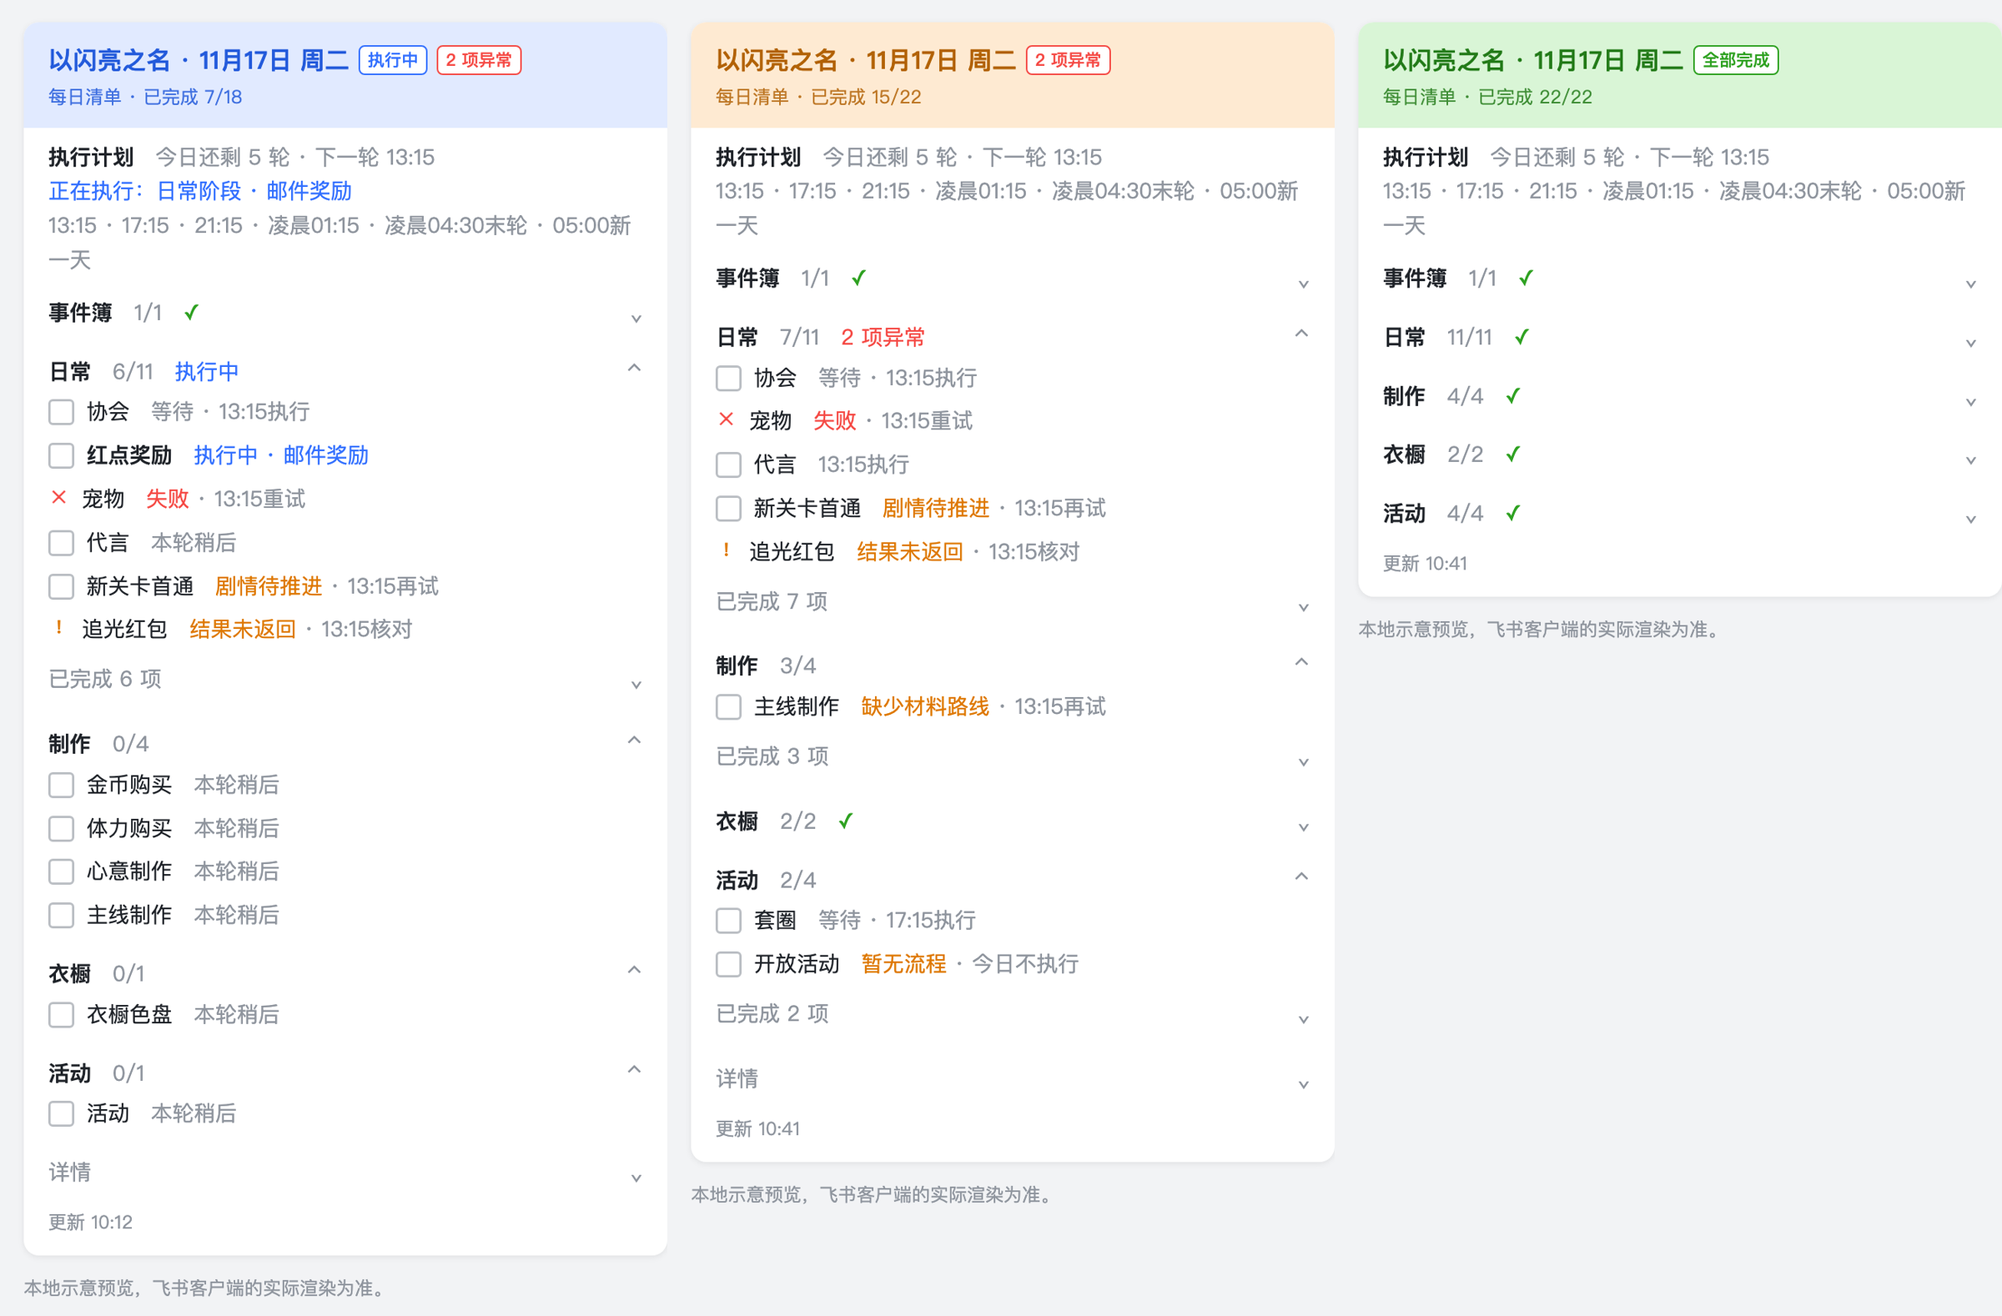
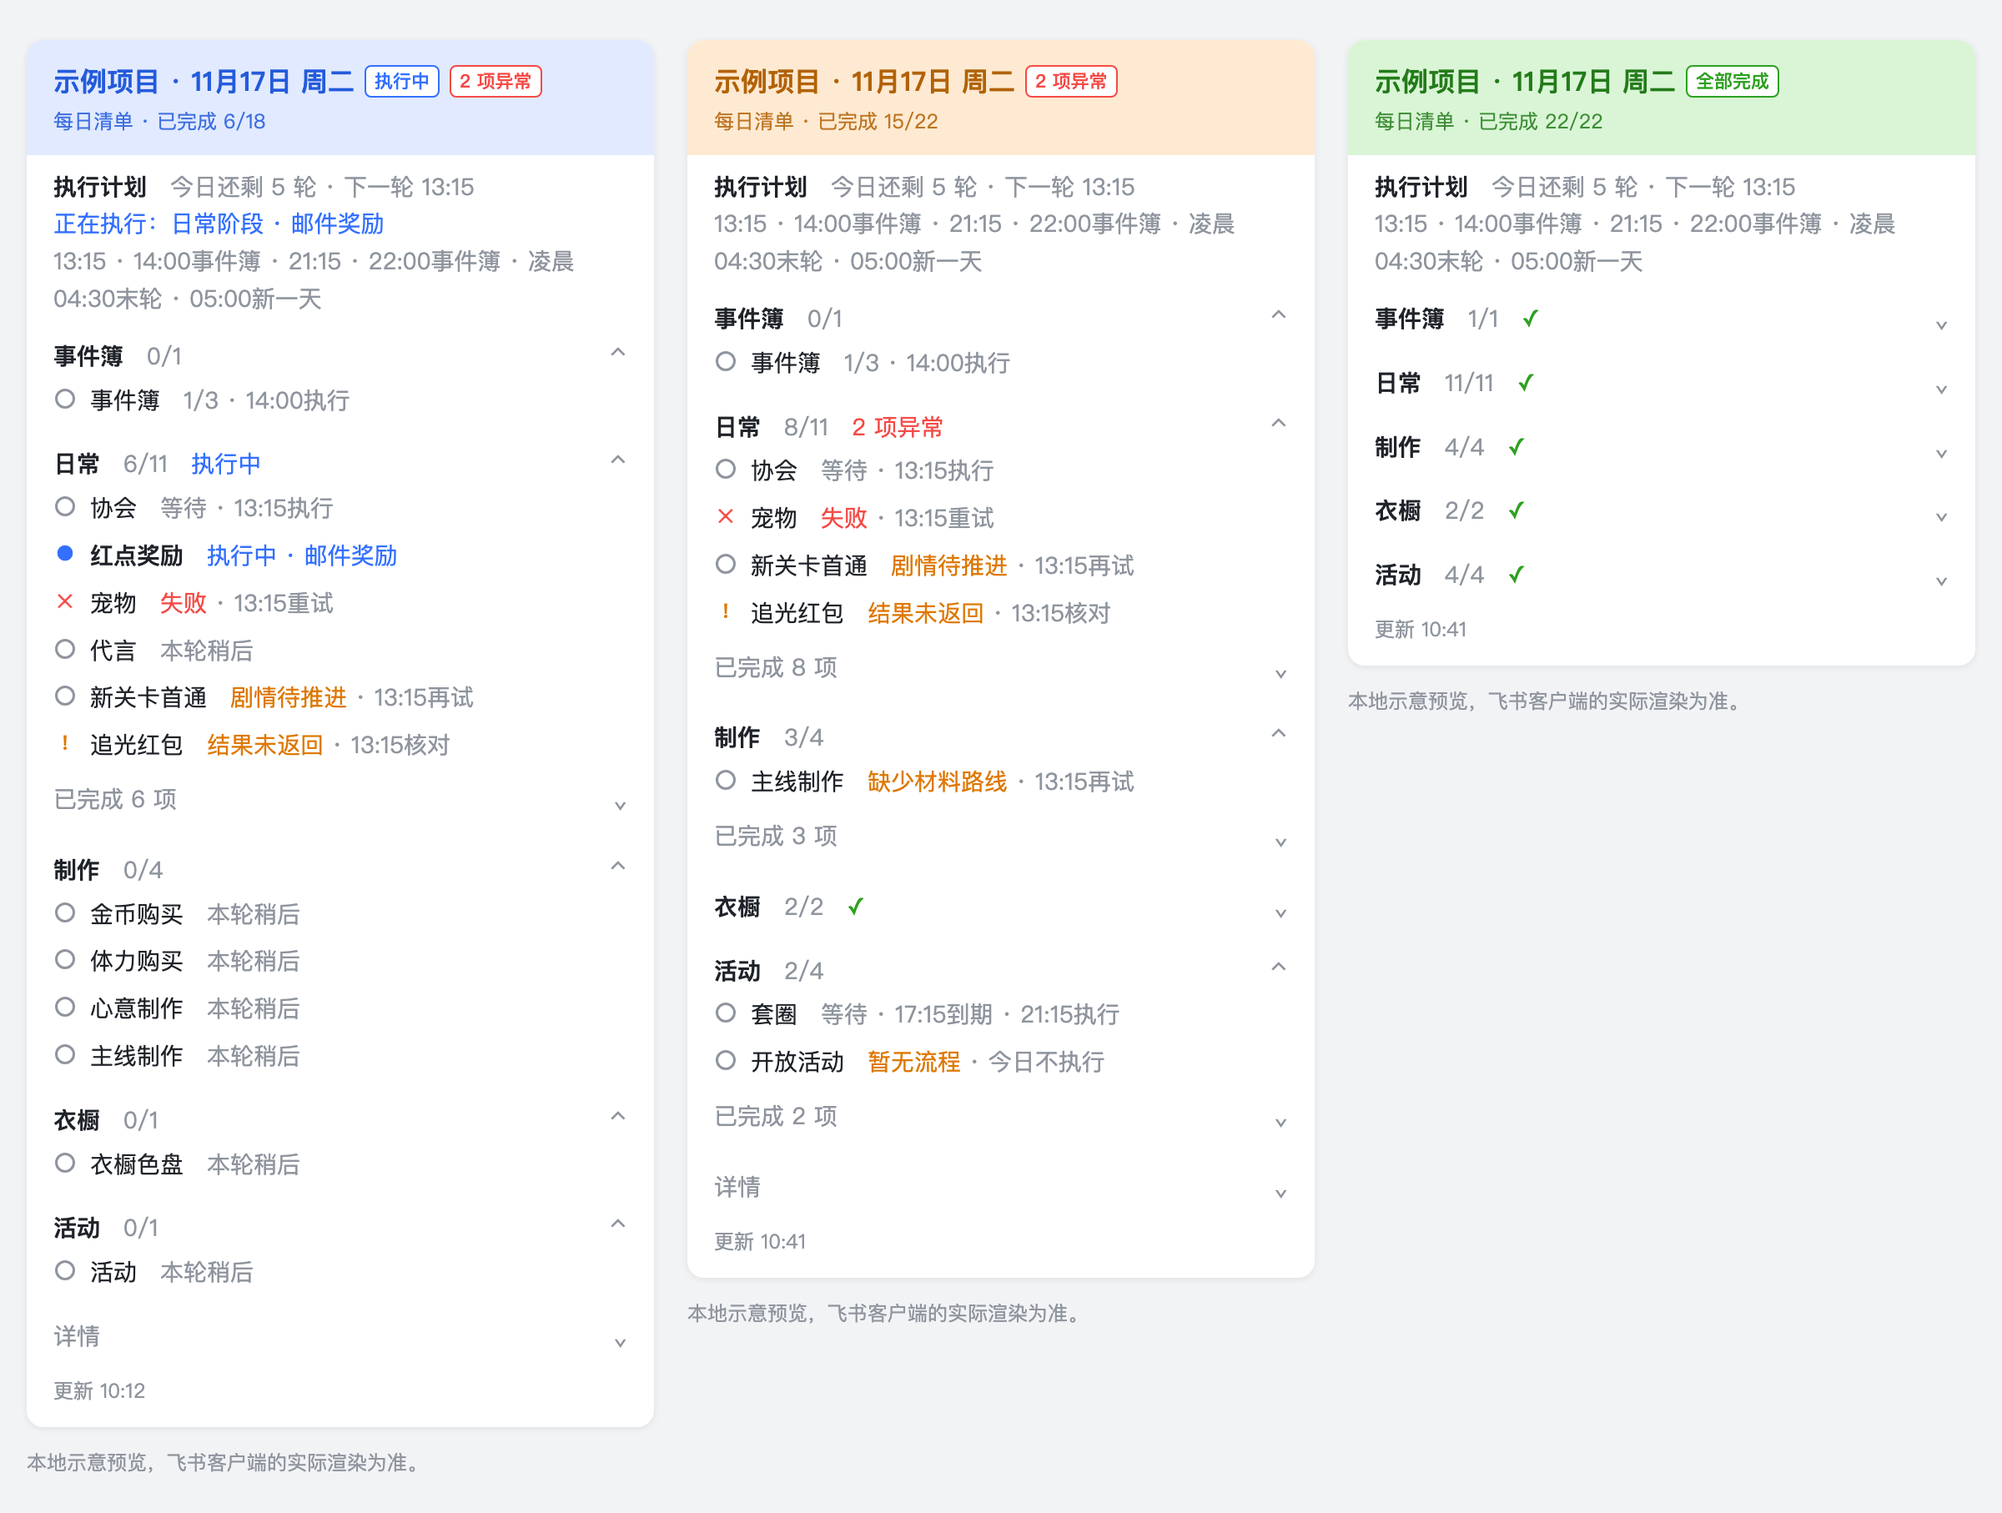
精简 README，更新卡片预览图
- README 改为面向 agent 的用法说明：概念、命令、接入步骤、运维规则、
  私有目录和开发约定，不再出现具体游戏名
- 预览图换成当前的只读状态图标和执行计划，卡片标题改为「示例项目」
- 本地 HTML 预览补画待执行项的空心圆图标（之前不显示）
- .gitignore 注释不再写具体项目目录

diff --git a/autocontrol/board/preview.py b/autocontrol/board/preview.py
@@ -54,18 +54,20 @@ def _element(element: dict) -> str:
         )
     if tag == 'div':
         icon = element.get('icon') or {}
+        token = icon.get('token')
         glyph = {
-            'ellipse_outlined': '',
+            'ellipse_outlined': '',  # drawn as an outlined ring by CSS
             'record_outlined': '●',
             'succeed_filled': '✓',
             'error_filled': '✕',
             'warning-hollow_filled': '!',
-        }.get(icon.get('token'), '•')
+        }.get(token, '•')
+        ring = ' ring' if token == 'ellipse_outlined' else ''
         color = COLORS.get(icon.get('color'), '#646a73')
         text = _inline(element.get('text', {}).get('content', ''))
         return (
-            f'<div class="todo"><span class="mark" style="color:{color};border-color:{color}">{glyph}</span>'
-            f'<span class="text">{text}</span></div>'
+            f'<div class="todo"><span class="mark{ring}" style="color:{color};border-color:{color}">'
+            f'{glyph}</span><span class="text">{text}</span></div>'
         )
     if tag == 'collapsible_panel':
         title = _inline(element.get('header', {}).get('title', {}).get('content', ''))
@@ -113,6 +115,8 @@ def card_html(card: dict, *, title: str = '卡片预览') -> str:
   .todo.done .box {{ background: #3370ff; border-color: #3370ff; }}
   .mark {{ flex: none; width: 14px; height: 14px; margin-top: 3px; font-size: 12px; font-weight: 700;
            line-height: 14px; text-align: center; }}
+  .mark.ring {{ box-sizing: border-box; width: 12px; height: 12px; margin: 4px 1px 0;
+                border: 1.5px solid; border-radius: 50%; }}
   .todo.done .text {{ text-decoration: line-through; opacity: .5; }}
   .md.small {{ font-size: 12px; }}
   .md.indent {{ margin: -4px 0 0 24px; }}

diff --git a/README.md b/README.md
@@ -1,113 +1,76 @@
-# autocontrol 本地自动执行总控台
+# autocontrol
 
-按计划调度各项目的自动化执行器，把每一轮的进度实时更新到**一张飞书 todolist 卡片**上，同时归档结果、记录运行指标，并为新接入的脚本提供统一的协议、准入检查和指标阈值。
+本地自动执行总控台：按计划调度各项目的执行器子进程，把每一轮的进度实时写到一张飞书卡片上，归档结果并记录运行指标。Python ≥ 3.10，无第三方依赖。
 
-由 `yslzm/tools` 下的总控台（`daily_board`、`run_scheduled` 等）重构而来，Review 结论见 [docs/REVIEW.md](docs/REVIEW.md)；接入新脚本请看 [docs/接入规范.md](docs/接入规范.md)。
+## 概念
 
-## 能力
+- **项目**：一个被调度的执行器，两种接入方式：
+  - 协议项目：执行器按协议 v1 输出，用清单 `autocontrol.json` 描述，命令行写 `--manifest <清单>`。
+  - 内置适配器：`autocontrol/projects/<名称>/` 适配的存量执行器，命令行写 `--project <名称>`。
+- **私有目录**（`--private`；协议项目默认取清单的 `private` 字段）：锁、结果、指标、卡片绑定和飞书配置都在这里，不进仓库。
+- **服务日**：从清单 `schedule.reset` 起的 24 小时。重置早于 12:00 的按开始日期命名，12:00 及以后的按次日命名。
+- **一轮**：按清单 `phases` 的顺序，每个阶段运行一次执行器。唤醒时刻包括清单的固定时刻 `schedule.times`，以及执行器在结果里上报的 `next_wake`。换日时刻只做只读发现。
+- **卡片**：每个项目每个服务日一张，执行中持续更新同一张。
 
-- **调度**：固定时刻 + 执行器上报的动态时刻（计时到期、窗口开放）；服务日切换时只读发现新计划；启动时补跑一轮；失败指数退避。cron 每 5 分钟只负责看护进程。
-- **执行**：每轮按阶段顺序运行执行器子进程；单阶段失败不跳过、不重放后续阶段；探测账号锁，被占用时让路；超时终止。
-- **卡片**：每个项目每个服务日一张卡片，先发布固定计划再启动执行器，执行中持续更新同一张卡片；通知故障不阻断业务，恢复后补发最新状态。
-- **归档与指标**：每个阶段一份固定字段结果 JSON；`metrics.sqlite3` 记录阶段、轮次、任务日终状态；`metrics` 命令按阈值给出健康结论。
-- **接入**：执行器协议 v1 + 声明式清单 `autocontrol.json` + `check` 准入检查 + 单文件 Python SDK + JSON Schema。
+## 命令
 
-展示状态永远不授权、也不跳过任何业务动作：执行器每次都重新读取实时状态。
+在仓库根目录运行：`python3 -B run.py <命令> (--manifest <清单> | --project <名称>) [--workdir <目录>] [--private <目录>]`。
 
-## 卡片
+**必须显式写 `--manifest` 或 `--project`**：两个都不写时，默认用内置适配器跑真实执行器。
 
-![todolist](docs/card-preview.png)
+| 命令 | 作用 |
+|---|---|
+| `check [--static] [--repeat N] [--json]` | 准入检查。协议项目通过后，`serve`、`once`、`install` 才会运行；清单改动后要重新检查。`--static` 不运行执行器 |
+| `once --observe-only` | 只读发现当日计划并更新卡片，不发起任何变更 |
+| `once [--phase <阶段>]` | 立即执行一整轮，或只执行一个阶段 |
+| `serve [--observe-first]` | 常驻调度。每个项目只能有一个，由 `coordinator.lock` 保证 |
+| `install [--no-start]` | 在 crontab 写入 `# BEGIN AUTOCONTROL <名称>` 段，每 5 分钟检查并拉起 `serve`；其他 crontab 行不变 |
+| `metrics [--days N] [--json]` | 运行指标与健康结论 |
+| `preview [--snapshot <快照>] [--demo running\|finished\|done] [--out <卡片.json>] [--html <预览.html>]` | 本地渲染卡片，不联网。协议项目必须给 `--snapshot` |
+| `chats` | 列出机器人所在的群，用来查 `chat_id` |
+| `schema [--out docs/schemas]` | 导出协议 JSON Schema |
 
-- **执行计划**两行常显在顶部：今日还剩几轮、下一轮几点、全部剩余轮次（服务器计时触发的标明来源，最后一轮标「末轮」），执行中多一行「正在执行：某阶段 · 某任务」。
-- 按阶段分组（事件簿 → 日常 → 制作 → 衣橱 → 活动），每组只列出**未完成**的任务，已完成的折叠在组内「已完成 N 项」里，点击展开；整组完成时整组折叠并打 ✓。
-- **每个未完成任务一行**：「标题　状态 · 下次执行」，如「普通色盘　材料不足 · 15:00再试」「宠物　失败 · 13:15重试」（红色 ✗）「代言　本轮稍后」；今日已做完（如画中蓬莱今日已成长）的项目直接折叠进「已完成」；长原因收进底部折叠的「详情」。
-- 页头：`以闪亮之名 · 11月17日 周二`，副标题 `每日清单 · 已完成 x/y`，状态标签与颜色（执行中蓝、全部完成绿、有异常橙、等待浅蓝），会话列表摘要同步显示进度；今日不适用的任务隐藏，子步骤缺少状态的观察收进底部「详情」。
+`--skip-admission` 只用于调试。
 
-本地预览（不联网）：
+## 接入新脚本
 
-```bash
-python3 run.py preview --demo running --html /tmp/card.html
+1. 按 [docs/接入规范.md](docs/接入规范.md) 改造脚本并写 `autocontrol.json`。Python 脚本把 `sdk/python/autocontrol_worker.py` 复制到脚本旁边使用。完整示例见 [examples/demo_worker/](examples/demo_worker/)。
+2. 在私有目录放 `lark_app.json`：权限 0600，字段为 `app_id`、`app_secret`、`chat_id`。
+3. `check --manifest <清单> --repeat 2`，所有必须项都要通过。
+4. `once --manifest <清单> --observe-only`，确认卡片内容。
+5. `install --manifest <清单>`。
+
+## 运维规则
+
+- **重启 `serve`**：只能在两轮之间操作，即私有目录的 `round.lock` 没有被占用时；新进程必须带 `--observe-first`，不带时启动后会立即补跑一整轮。cron 看护拉起的进程不带这个参数。
+- **停止服务**：`kill -TERM $(lsof -t <私有目录>/coordinator.lock)`，等锁释放后再启动新进程。锁的持有者不是自己启动的进程时，先确认再停。
+- **账号锁**：执行器的账号锁（清单 `account_lock`）被占用时，到期的一轮每分钟重试一次，最长 30 分钟。
+- **运维开关**：私有目录的 `autocontrol.json` 存放运维开关，可选。例如适配器支持时写 `{"shared_session": true}`，一轮只起一个执行器进程。从下一轮起生效，不需要重启。
+- **隐私**：仓库是公开的。不要输出或提交 `lark_app.json` 的内容、`chat_id`、`message_id` 或任何账号信息。
+
+## 私有目录
+
+| 路径 | 内容 |
+|---|---|
+| `lark_app.json` | 飞书机器人配置 |
+| `autocontrol.json` | 运维开关（可选） |
+| `coordinator.lock`、`round.lock` | 常驻服务锁、正在执行一轮 |
+| `results/` | 每个阶段一份固定字段的结果 JSON |
+| `metrics.sqlite3` | 阶段、轮次、任务日终状态 |
+| `daily_board.sqlite3` | 每个服务日的卡片绑定与最新快照 |
+| `admission/` | 最近一次准入检查记录 |
+
+## 开发
+
+- 测试：`python3 -m pytest`。不联网，不运行真实执行器。
+- 格式：black 和 ruff，行宽 100，见 `pyproject.toml`。
+- 内置适配器的结果解析是从上游执行器移植的副本（见各模块文档字符串），上游结果格式变化时需要同步。
+- 卡片样式示意（示例数据）：[docs/card-preview.png](docs/card-preview.png)。
+
 ```
-
-## 目录
-
+autocontrol/   schedule、runner、service、protocol、admission、metrics；board/ 卡片；lark/ 飞书；projects/ 项目接入
+sdk/python/    脚本侧 SDK
+examples/      协议接入示例
+docs/          接入规范、JSON Schema
+tests/
 ```
-autocontrol/
-  schedule.py      服务日与唤醒时刻
-  locks.py         flock 锁（与执行器账号锁兼容）
-  worker.py        子进程 + 进度管道
-  storage.py       私有结果归档（原子写入）
-  protocol.py      执行器协议 v1：常量与严格校验
-  runner.py        一轮：发布计划 → 逐阶段执行 → 收尾
-  service.py       常驻调度
-  admission.py     准入检查
-  metrics.py       运行指标与阈值
-  schemas.py       协议 JSON Schema 生成
-  board/           目录、投影、卡片渲染、HTML 预览
-  lark/            飞书客户端、卡片绑定存储、发布器
-  projects/        base（项目接口）、manifest（协议接入）、yslzm（适配器接入）
-sdk/python/autocontrol_worker.py   脚本侧 SDK（复制即用）
-examples/demo_worker/              协议接入示例
-docs/                              接入规范、Review、JSON Schema
-tests/                             单元与端到端测试
-```
-
-## 使用（yslzm）
-
-默认使用 `~/Documents/workspace/yslzm` 作为执行器目录、`~/.config/yslzm` 作为私有目录（与原总控台相同：锁、结果目录、`lark_app.json`、`daily_board.sqlite3` 都沿用，当天已有的卡片会继续更新而不是新发一张）。
-
-```bash
-# 只读发现当日计划，并发布／更新当天卡片
-PYTHONDONTWRITEBYTECODE=1 python3 -B run.py once --observe-only
-# 执行一整轮
-PYTHONDONTWRITEBYTECODE=1 python3 -B run.py once
-# 只执行一个阶段
-PYTHONDONTWRITEBYTECODE=1 python3 -B run.py once --phase cardbook
-# 运行指标
-python3 run.py metrics
-# 查机器人所在群的 chat_id
-python3 run.py chats
-```
-
-`--workdir`、`--private`、`--python` 可覆盖默认位置与解释器。
-
-**共享登录（一整轮一个进程）**：在私有目录写 `autocontrol.json`（权限 0600），内容 `{"shared_session": true}`，之后每轮只启动一次 `main.py run --phases …`。阶段之间会沿用仍然有效的登录，活动阶段按注册表的要求重新登录。卡片和指标仍然逐阶段更新，指标的 `sessions` 列记录每个阶段新开的登录数。共享进程中途退出时，正在跑的阶段如实记为失败或超时，不会重跑；还没开始的阶段按原方式逐个运行。删掉这个文件，或把值改为 `false`，下一轮起恢复逐阶段运行，不需要重启。
-
-**固定时段的阶段**：`projects/yslzm/catalog.py` 的 `SCHEDULE.slots` 让某个阶段只在自己的时刻运行。事件簿是 06:00、14:00、22:00：06:00 跟全量轮一起跑，14:00 和 22:00 单独跑；其他唤醒不带它，除非它当前的时段还没有一次成功执行，这时在下一次唤醒补跑。卡片上这一行显示「已成功时段数/时段数 · 下次执行」，全部时段成功才算今日完成。时段必须和 yslzm 模块注册表的 `schedule` 一致，准入检查 Y7 会核对。
-
-**服务器报告的唤醒**：`SCHEDULE.dynamic_phases` 决定这类唤醒只跑哪些阶段。yslzm 为 `('activities',)`，即活动开放时刻只跑活动阶段；05:00 换日前后 10 分钟内的时刻一律不唤醒。yslzm 的全量轮现为 06:00、13:15、21:15、04:30。
-
-**重启服务**：只能在两轮之间（`round.lock` 没有被占用）操作，并且要带 `--observe-first`。不带这个参数的 `serve` 启动时会立刻补跑一整轮。
-
-**适配器同步**：`projects/yslzm/summary.py` 与 `diagnostics.py` 是 `yslzm/tools/run_scheduled.py`、`result_diagnostics.py` 的移植（仅格式化，逻辑逐行一致，`tests/yslzm/test_phases.py` 为原测试移植）。yslzm 执行器的结果格式变化时需同步这两份文件。长期建议按[接入规范](docs/接入规范.md)让 yslzm 的 `main.py` 直接输出协议 v1，届时可删除这层副本。
-
-### 从 `yslzm/tools/local_daily.py` 切换
-
-1. 跑测试：`python3 -m pytest`。
-2. 预览卡片：`python3 run.py preview --demo finished --html /tmp/card.html`。
-3. 用真实配置只读试运行一次（会登录游戏读取状态并更新飞书卡片）：`python3 -B run.py once --observe-only`。
-4. 安装看护（替换 crontab 中 yslzm 的旧条目，其他条目保持不变；旧的 `~/.config/yslzm/run_scheduled.py` 入口改为转入新控制台）：`python3 -B run.py install --no-start`。
-5. 停掉旧的常驻进程：`pkill -f tools/local_daily.py`。新旧服务共用 `coordinator.lock`，旧进程在时新服务不会启动，不会出现双开；下一次 cron 看护会拉起新服务。
-
-## 接入新的自动化脚本
-
-```bash
-# 1. 按 docs/接入规范.md 写 autocontrol.json，并按协议改造脚本（Python 可复制 sdk/python/autocontrol_worker.py）
-# 2. 准入检查（只读运行脚本并逐项打分，通过后才允许调度）
-python3 run.py check --manifest path/to/autocontrol.json --repeat 2
-# 3. 试运行与上线
-python3 run.py once --manifest path/to/autocontrol.json --observe-only
-python3 run.py install --manifest path/to/autocontrol.json
-```
-
-示例：`python3 run.py check --manifest examples/demo_worker/autocontrol.json --private /tmp/demo-private`。
-
-yslzm 这类适配器项目用 `python3 run.py check --project yslzm` 做准入（`--static` 只比对执行器源码，不登录游戏）：Y1–Y6 静态比对执行器源码与卡片目录（任务 ID、状态映射、原因码、单位、各阶段任务表、超时上限），L1–L4 做一次只读实跑。适配器属于总控台内部，接入规范只面向协议脚本的作者。
-
-## 测试
-
-```bash
-python3 -m pytest
-```
-
-包含：从 yslzm 移植的结果摘要测试（证明迁移后行为一致）、投影、卡片、发布器（幂等与恢复）、调度、子进程、安装器、协议校验、清单项目、准入检查、指标、SDK 与 JSON Schema 一致性，以及用假执行器跑真实子进程协议的端到端测试。
